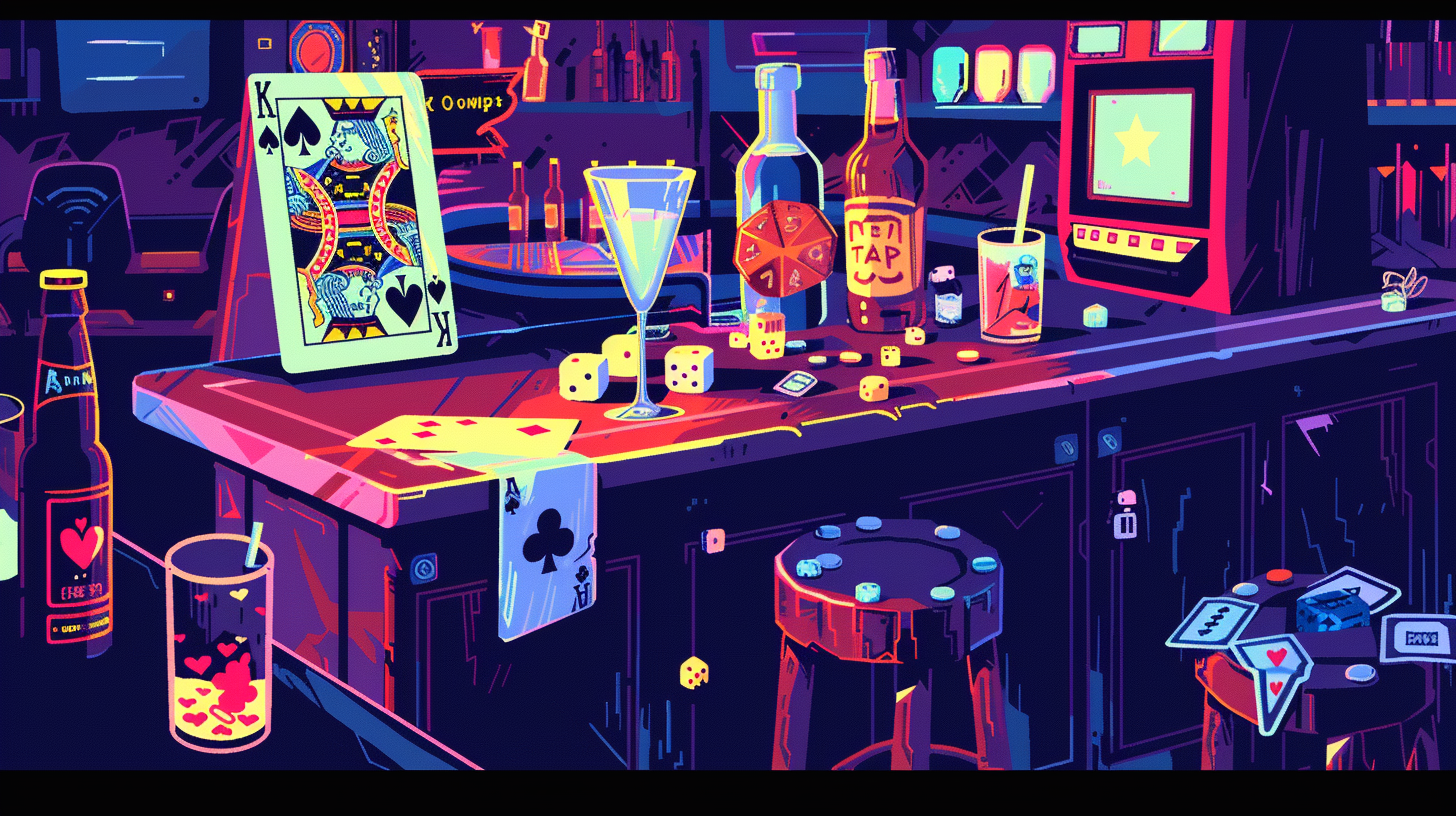
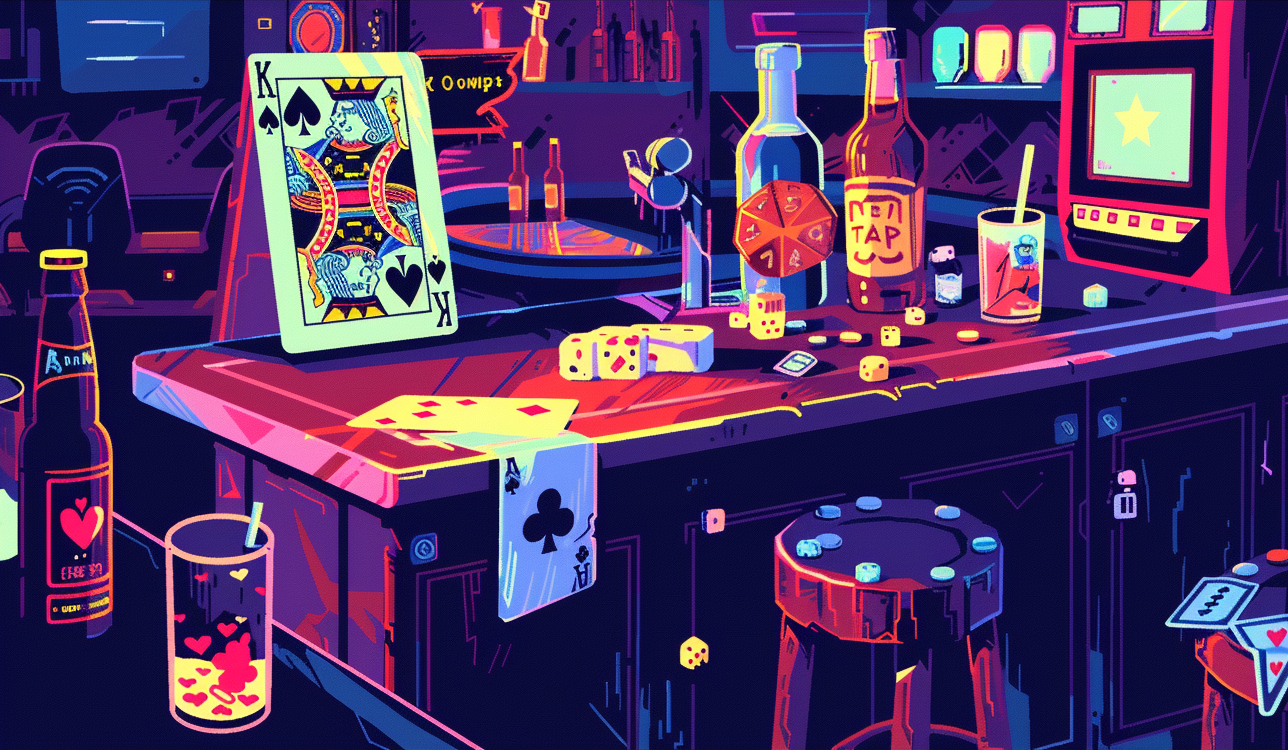
new hero

diff --git a/src/Pages/Index/Footer.jsx b/src/Pages/Index/Footer.jsx
@@ -1,20 +1,17 @@
 import React from 'react';
+import logo from '../../assets/logo-1.png';
 
 const Footer = () => {
   return (
     <footer className='footer items-center p-4 bg-neutral text-neutral-content'>
       <aside className='items-center grid-flow-col'>
-        <svg
+        <img
+          src={logo}
           width='36'
           height='36'
-          viewBox='0 0 24 24'
-          xmlns='http://www.w3.org/2000/svg'
-          fillRule='evenodd'
-          clipRule='evenodd'
+          alt='Logo'
           className='fill-current'
-        >
-          <path d='M22.672 15.226l-2.432.811.841 2.515c.33 1.019-.209 2.127-1.23 2.456-1.15.325-2.148-.321-2.463-1.226l-.84-2.518-5.013 1.677.84 2.517c.391 1.203-.434 2.542-1.831 2.542-.88 0-1.601-.564-1.86-1.314l-.842-2.516-2.431.809c-1.135.328-2.145-.317-2.463-1.229-.329-1.018.211-2.127 1.231-2.456l2.432-.809-1.621-4.823-2.432.808c-1.355.384-2.558-.59-2.558-1.839 0-.817.509-1.582 1.327-1.846l2.433-.809-.842-2.515c-.33-1.02.211-2.129 1.232-2.458 1.02-.329 2.13.209 2.461 1.229l.842 2.515 5.011-1.677-.839-2.517c-.403-1.238.484-2.553 1.843-2.553.819 0 1.585.509 1.85 1.326l.841 2.517 2.431-.81c1.02-.33 2.131.211 2.461 1.229.332 1.018-.21 2.126-1.23 2.456l-2.433.809 1.622 4.823 2.433-.809c1.242-.401 2.557.484 2.557 1.838 0 .819-.51 1.583-1.328 1.847m-8.992-6.428l-5.01 1.675 1.619 4.828 5.011-1.674-1.62-4.829z'></path>
-        </svg>
+        />
         <p>Copyright © 2024 - All right reserved</p>
       </aside>
       <nav className='grid-flow-col gap-4 md:place-self-center md:justify-self-end'>

diff --git a/src/Pages/Index/Hero.jsx b/src/Pages/Index/Hero.jsx
@@ -1,15 +1,18 @@
 import React from 'react';
-import heroImage from '../../assets/hero-image-alt.png';
+import heroImage from '../../assets/hero-image-g.png';
 import { Link } from 'react-router-dom';
 
 const Hero = () => {
   return (
-    <div className='hero bg-base-100 '>
-      <div>
-        <img src={heroImage} alt='Hero' className='mx-auto' />
-      </div>
-      <div className=' hero-content w-full h-full flex items-center justify-start'>
-        <div className='w-2/5'>
+    <div
+      className='hero min-h-screen'
+      style={{
+        backgroundImage: 'url(' + heroImage + ')',
+      }}
+    >
+      <div className='hero-overlay bg-opacity-75'></div>
+      <div className='hero-content text-left text-neutral-content w-full flex items-center justify-start'>
+        <div className='max-w-lg pl-15'>
           <h1 className='tracking-tight font-light text-text text-4xl '>
             Welcome to
           </h1>
